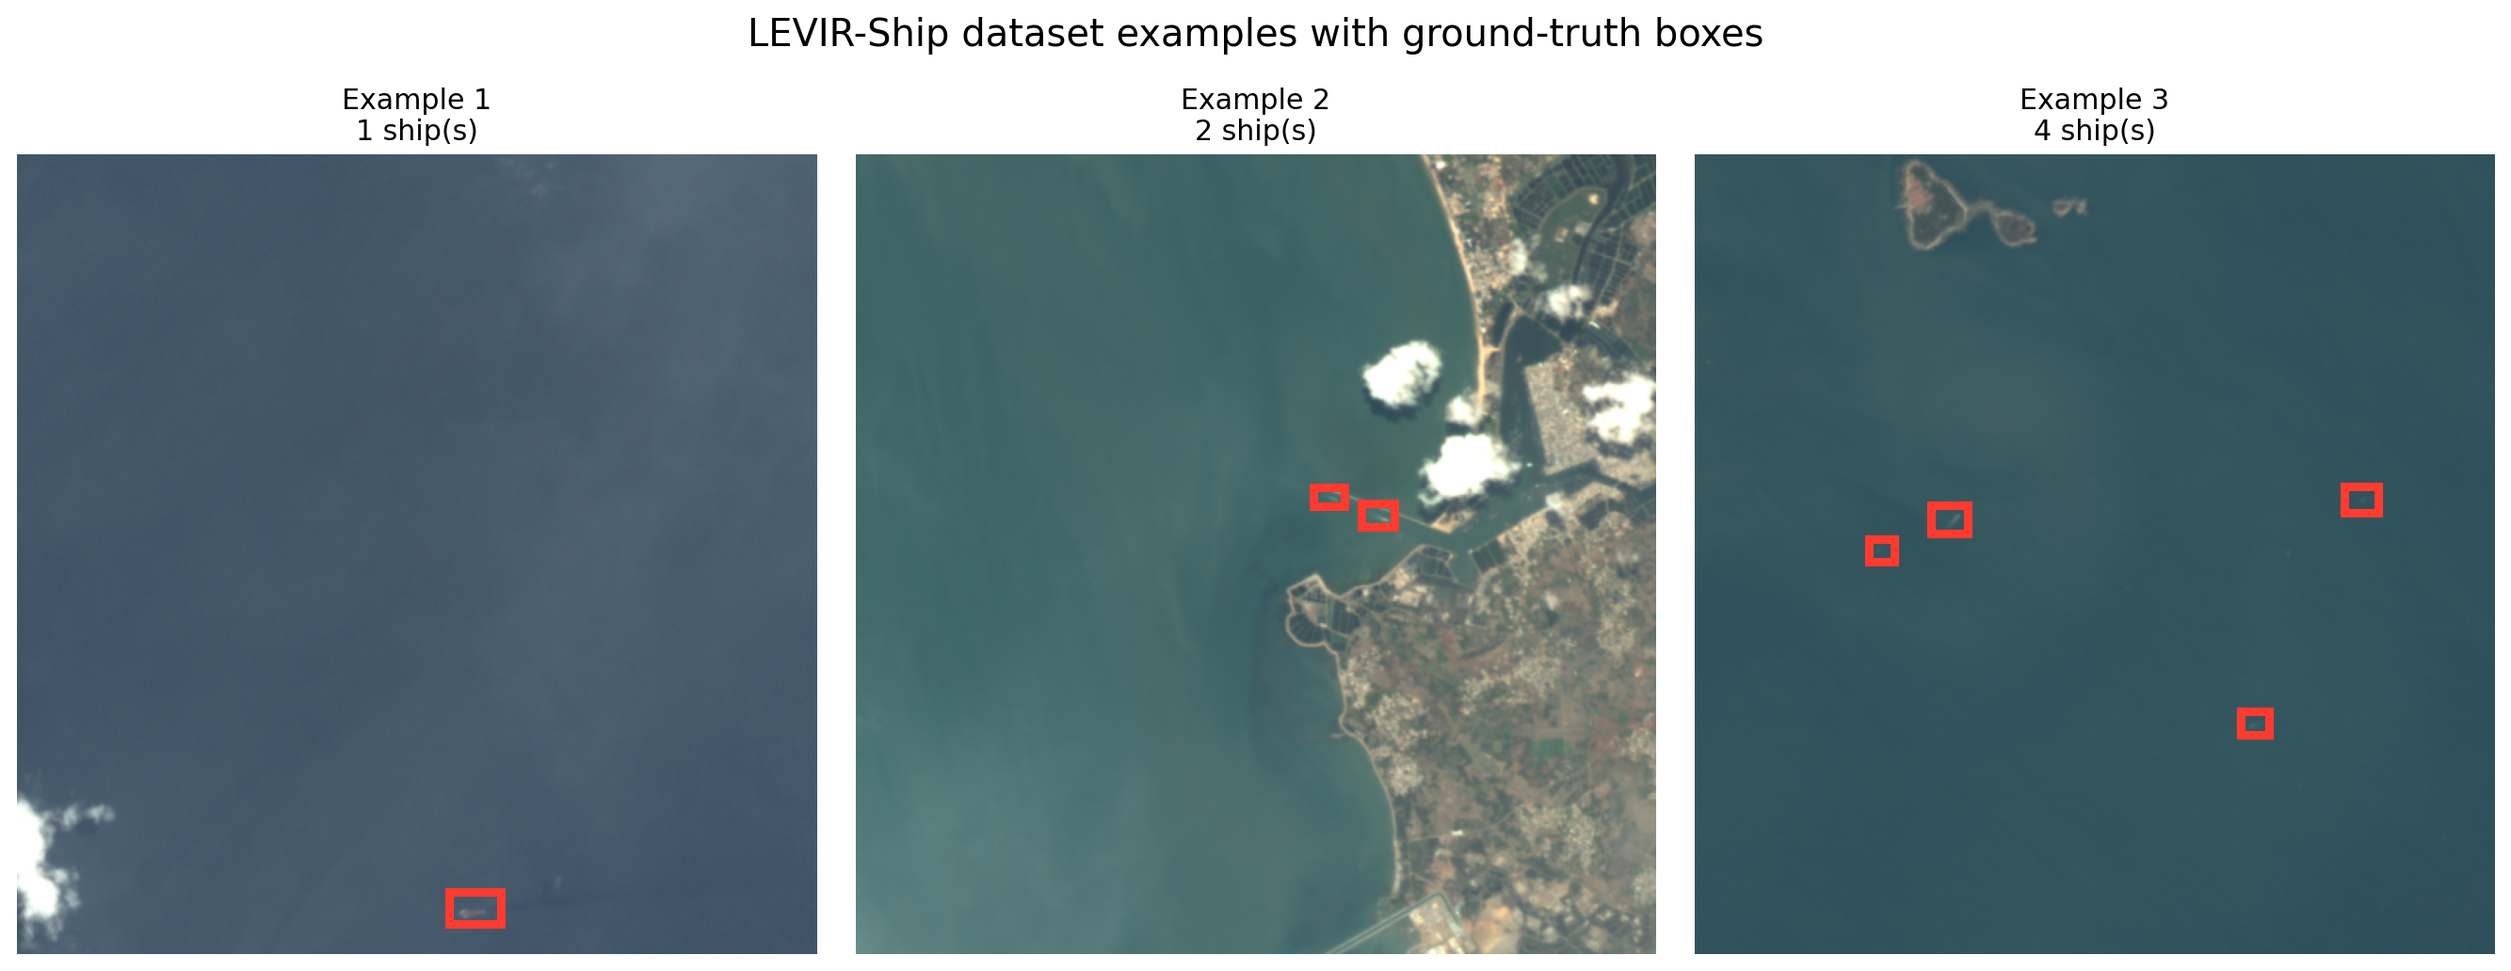
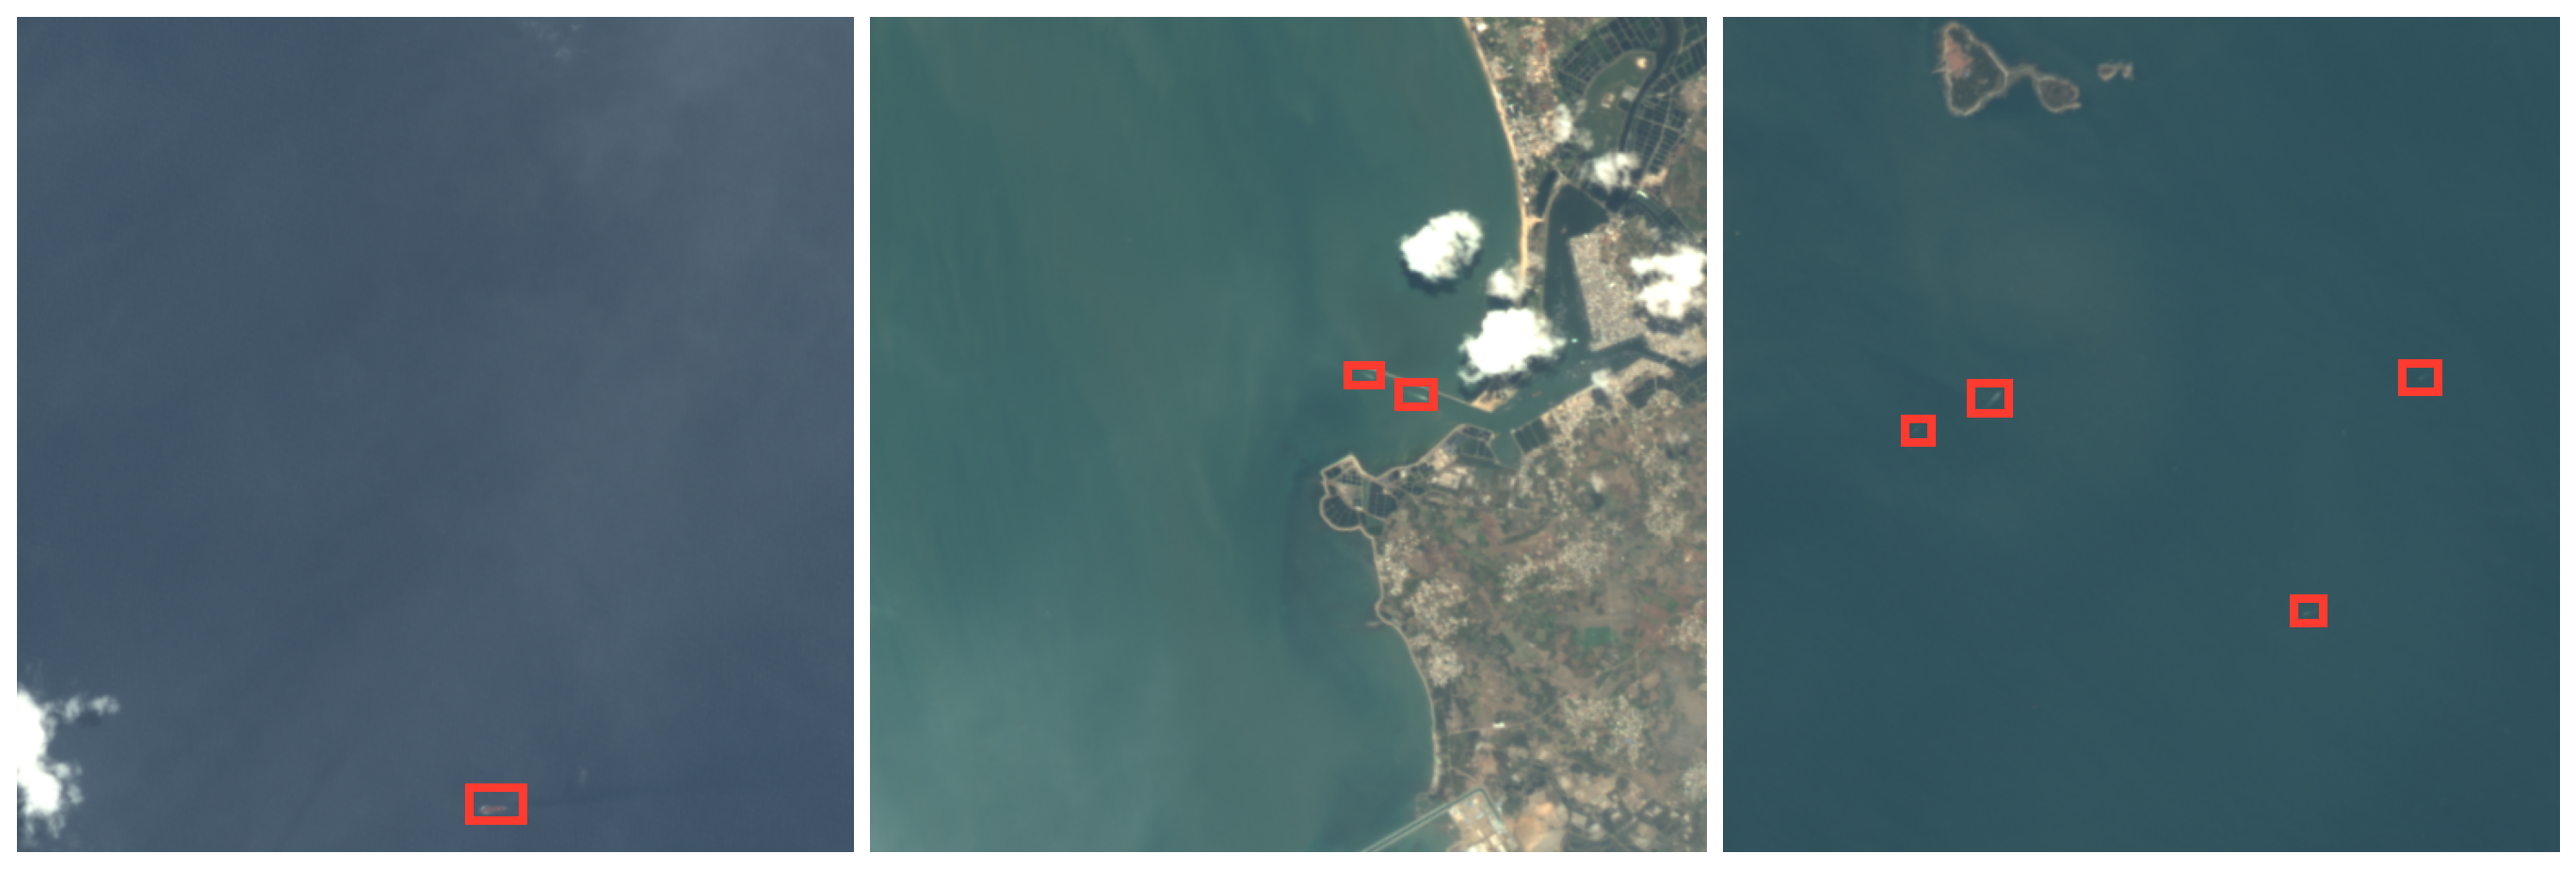
Align dataset example contact sheets

diff --git a/misc/plot_dataset_examples.py b/misc/plot_dataset_examples.py
@@ -18,7 +18,7 @@ import matplotlib
 matplotlib.use("Agg")
 import matplotlib.pyplot as plt
 from matplotlib.patches import Rectangle
-from PIL import Image
+from PIL import Image, ImageOps
 
 ROOT = Path(__file__).resolve().parents[1]
 
@@ -107,18 +107,25 @@ def plot_one(item, dataset_label: str, class_name: str, output_path: Path, numbe
 
 
 def plot_sheet(items, dataset_label: str, class_name: str, output_path: Path) -> None:
-    fig, axes = plt.subplots(1, len(items), figsize=(15, 5.8), dpi=180, squeeze=False)
+    # Put every panel on the same square canvas. This keeps the three columns
+    # aligned even though the source datasets have different aspect ratios.
+    fig, axes = plt.subplots(1, len(items), figsize=(15, 5), dpi=180, squeeze=False)
     for index, (item, ax) in enumerate(zip(items, axes[0]), start=1):
         count, image_path, label_path = item
         image = Image.open(image_path).convert("RGB")
         width, height = image.size
-        ax.imshow(image)
+        canvas_size = max(width, height)
+        canvas = Image.new("RGB", (canvas_size, canvas_size), "white")
+        fitted = ImageOps.contain(image, (canvas_size, canvas_size))
+        canvas.paste(fitted, ((canvas_size - fitted.width) // 2, (canvas_size - fitted.height) // 2))
+        ax.imshow(canvas)
+        offset_x = (canvas_size - fitted.width) / 2
+        offset_y = (canvas_size - fitted.height) / 2
         for x1, y1, x2, y2 in read_boxes(label_path, width, height):
-            ax.add_patch(Rectangle((x1, y1), x2 - x1, y2 - y1, fill=False, edgecolor="#ff3b30", linewidth=max(1.5, min(width, height) / 140)))
-        ax.set_title(f"Example {index}\n{count} {class_name}(s)", fontsize=12)
+            ax.add_patch(Rectangle((x1 + offset_x, y1 + offset_y), x2 - x1, y2 - y1, fill=False, edgecolor="#ff3b30", linewidth=max(1.5, min(width, height) / 140)))
         ax.axis("off")
-    fig.suptitle(f"{dataset_label} dataset examples with ground-truth boxes", fontsize=16, y=0.98)
-    fig.tight_layout(rect=(0, 0, 1, 0.93))
+        ax.set_aspect("equal")
+    fig.subplots_adjust(left=0, right=1, bottom=0, top=1, wspace=0.02)
     output_path.parent.mkdir(parents=True, exist_ok=True)
     fig.savefig(output_path, bbox_inches="tight", facecolor="white")
     plt.close(fig)
